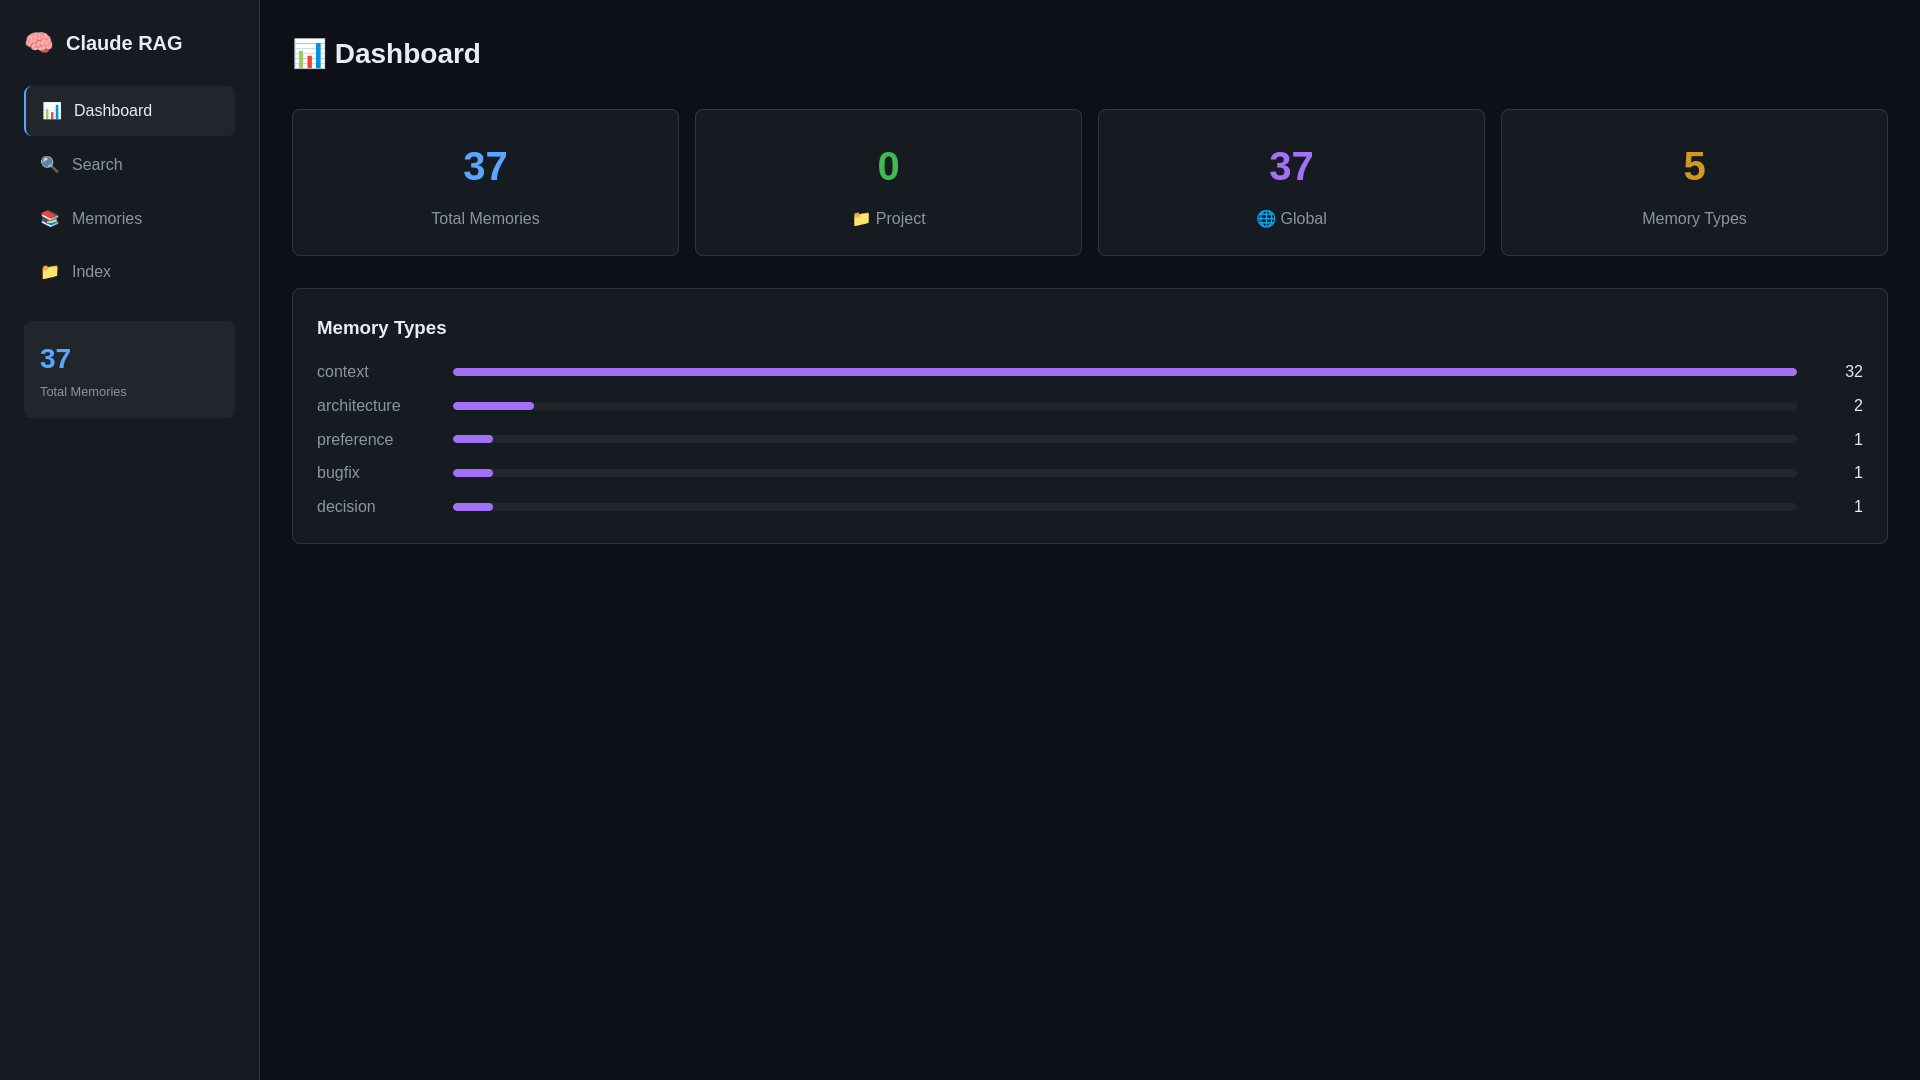
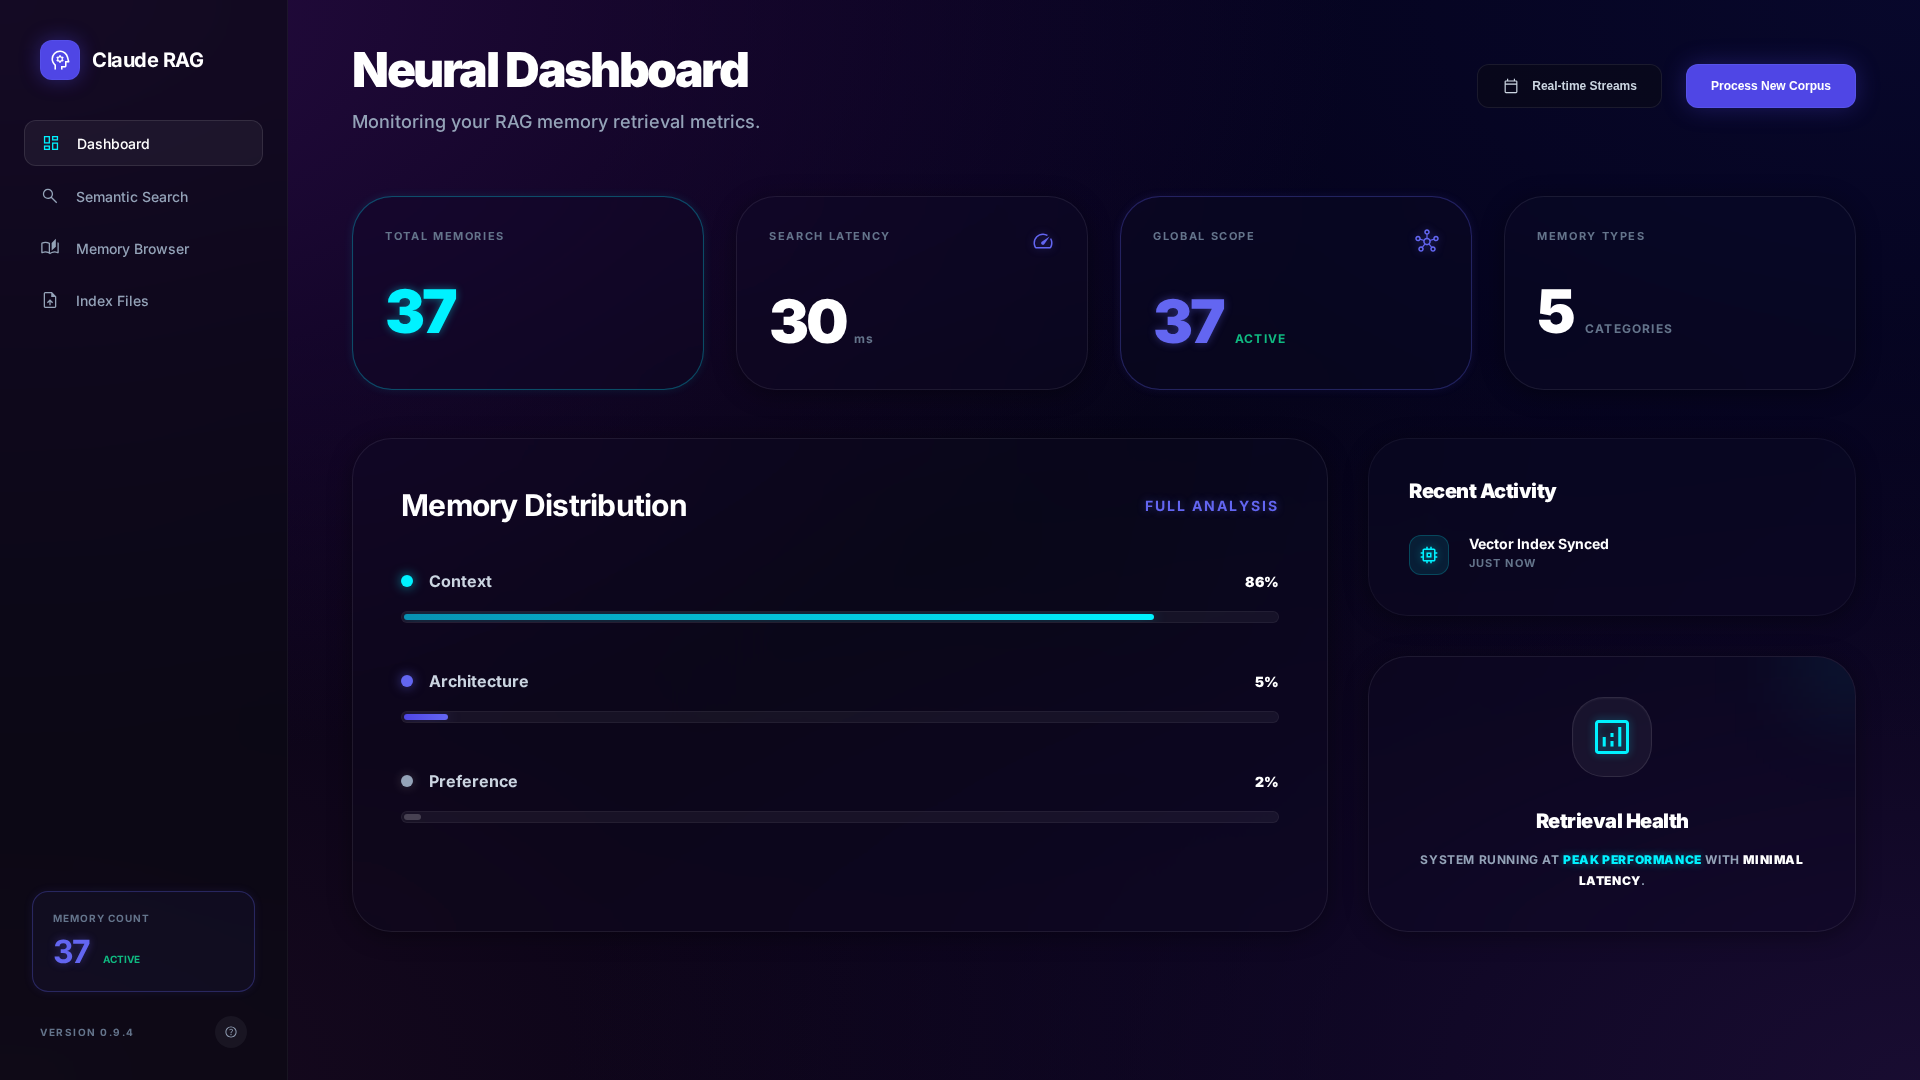
docs: update README with neon UI screenshots and comprehensive docs
- Added 4 new screenshots showcasing dark neon interface
- Updated Web Dashboard section with design and functional features
- Added screenshot gallery in 2x2 table layout
- Documented glassmorphism, Material Symbols icons, and neon theme
- Added Recent Updates section (v0.9.4 and v0.9.3)
- Updated roadmap with completed neon UI redesign
- Enhanced feature descriptions for new UI capabilities

diff --git a/README.md b/README.md
@@ -9,6 +9,8 @@
 
 ![Dashboard](assets/web-dashboard.png)
 
+_Modern dark neon interface with glassmorphism effects_
+
 ## ✨ Features
 
 ### 🎯 Core Capabilities
@@ -21,7 +23,7 @@
 
 ### 🛠 Interfaces
 - **🔌 MCP Integration** – Native Claude Code tools (13 tools available)
-- **🌐 Web Dashboard** – Beautiful Apple-inspired UI for browsing memories
+- **🌐 Web Dashboard** – Modern dark neon UI with glassmorphism effects and Material Symbols icons
 - **💻 CLI** – Fast command-line interface for power users
 - **📟 TUI** – Interactive terminal UI with real-time search
 
@@ -123,13 +125,37 @@ claude-rag web
 # Opens at http://localhost:8420
 ```
 
-Features:
-- 📊 **Dashboard** – Overview of all memories with type breakdown
-- 🔍 **Semantic Search** – Real-time search with filters
-- 📚 **Browse Memories** – Filter by type, scope, and source
-- 📂 **Index Files** – Drag-and-drop file indexing
+**Design Features:**
+- 🎨 **Dark Neon Theme** – Cyan/indigo color scheme with mesh gradients
+- ✨ **Glassmorphism** – Frosted glass effects with backdrop blur
+- 🎯 **Material Symbols** – Google's Material Symbols Outlined icons
+- 📱 **Responsive Design** – Works on desktop, tablet, and mobile
+- 🌊 **Smooth Animations** – Hover effects and transitions
 
-![Search Interface](assets/web-search.png)
+**Functional Features:**
+- 📊 **Dashboard** – Overview of all memories with type breakdown and visual analytics
+- 🔍 **Semantic Search** – Real-time search with type and scope filters
+- 📚 **Browse Memories** – Filter by type, scope, and source with delete capabilities
+- 📂 **Index Files** – Index files or directories with project/global scope selection
+
+<table>
+  <tr>
+    <td><img src="assets/web-dashboard.png" alt="Dashboard" /></td>
+    <td><img src="assets/web-search.png" alt="Search" /></td>
+  </tr>
+  <tr>
+    <td align="center"><em>Dashboard with memory analytics</em></td>
+    <td align="center"><em>Semantic search interface</em></td>
+  </tr>
+  <tr>
+    <td><img src="assets/web-memories.png" alt="Memories" /></td>
+    <td><img src="assets/web-index.png" alt="Index" /></td>
+  </tr>
+  <tr>
+    <td align="center"><em>Memory browser with filters</em></td>
+    <td align="center"><em>File indexing interface</em></td>
+  </tr>
+</table>
 
 ### Interactive TUI
 
@@ -358,6 +384,26 @@ Version 0.9.3+ includes comprehensive security hardening:
 
 ---
 
+## 📝 Recent Updates
+
+### v0.9.4 (2026-01-19) - Dark Neon UI Redesign
+- **Complete visual overhaul** with modern dark neon design
+- **Glassmorphism effects** with backdrop-filter blur and mesh gradients
+- **Material Symbols icons** replaced emoji icons for professional look
+- **Neon color scheme** with cyan/indigo glow effects
+- **Bento card design** with rounded corners and smooth transitions
+- **Improved typography** using Inter font family
+- **Enhanced mobile responsiveness** with proper media queries
+
+### v0.9.3 (2026-01-18) - Security Hardening
+- Comprehensive input validation and sanitization
+- Path traversal protection and symlink attack prevention
+- Automatic corruption backups before database resets
+- SHA256 hashing instead of MD5
+- Localhost-only binding by default
+
+---
+
 ## 🗺 Roadmap
 
 - [x] CLI interface
@@ -368,6 +414,7 @@ Version 0.9.3+ includes comprehensive security hardening:
 - [x] Export to multi-agent formats (AGENTS.md, CLAUDE.md, etc.)
 - [x] Comprehensive security hardening
 - [x] Automatic corruption recovery with backups
+- [x] Modern dark neon UI with glassmorphism
 - [ ] PyPI package
 - [ ] Docker image
 - [ ] Vim/Neovim plugin
